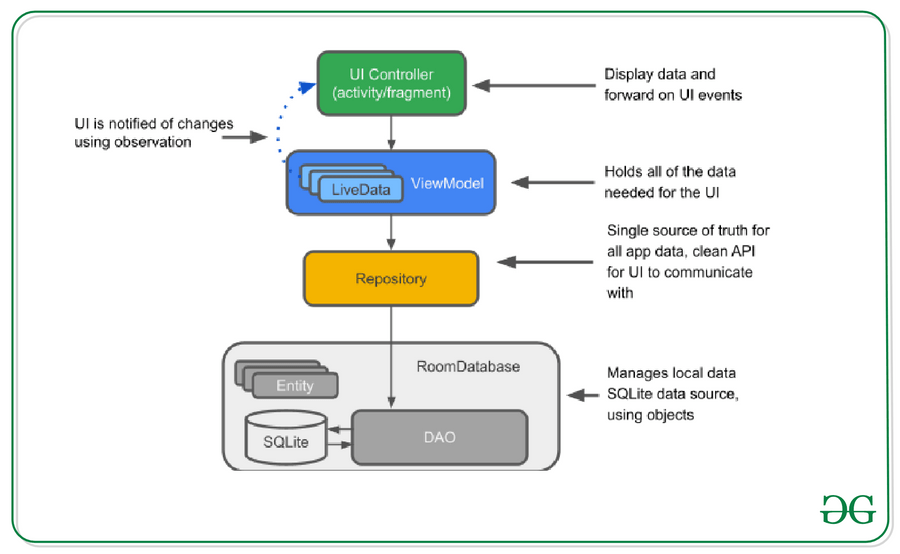
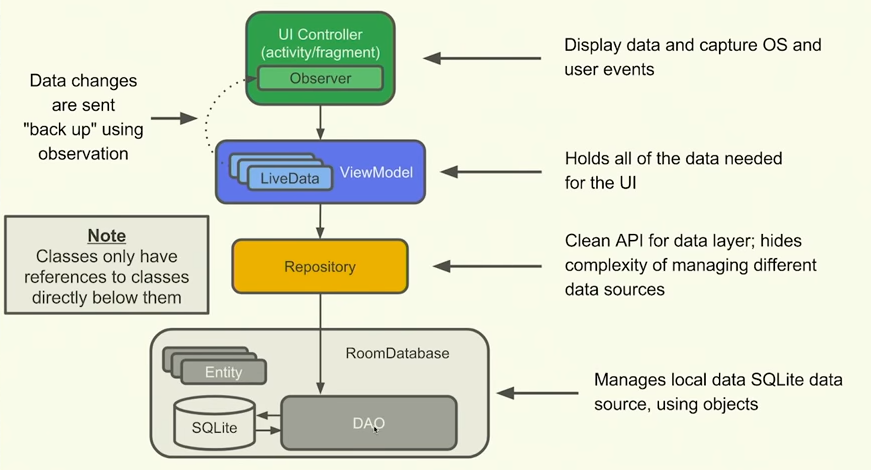
remove validation and update readme file

diff --git a/app/src/main/java/com/example/mirae/Activity/InsertTodoActivity.java b/app/src/main/java/com/example/mirae/Activity/InsertTodoActivity.java
@@ -22,7 +22,7 @@ public class InsertTodoActivity extends AppCompatActivity {
 
     ActivityInsertTodoBinding binding;
     String priority="1";
-    String title, subtitle, todo, todoDate;
+    String title, subtitle, todo;
     TodoViewModel todoViewModel;
 
     @Override
@@ -66,18 +66,7 @@ public class InsertTodoActivity extends AppCompatActivity {
                 subtitle = binding.todoSubtitle.getText().toString();
                 todo = binding.todoData.getText().toString();
 
-                if (title.equals("")) {
-                    binding.todoTitle.requestFocus();
-                    binding.todoTitle.setError("Title is required");
-                }else if (subtitle.equals("")) {
-                    binding.todoSubtitle.requestFocus();
-                    binding.todoSubtitle.setError("Subtitle Required");
-                }else if (todo.equals("")){
-                    binding.todoData.requestFocus();
-                    binding.todoData.setError("Description is required");
-                }else{
-                    createTodo(title, subtitle, todo);
-                }
+                createTodo(title, subtitle, todo);
             }
         });
     }

diff --git a/README.md b/README.md
@@ -1,38 +1,44 @@
 # Mirae 
 
-# Mirae App In Action
+## Mirae App In Action
 Mirae is a simple Todo application that lets users to create, update or delete todo list 
 as well as sort them on the basis of priority. The app also provides a search menu to 
 search for the list based on either the title or subtitle.
 [[keep the live gif file of it working]]
 
-# MVVM Architecture
+## MVVM Architecture
 My Android application adheres to the MVVM architectural pattern, which helps organize the 
 code in a better way. This design separates different parts of the app so that they don't get 
 mixed up and become hard to work with. 
 
 ![git](./img/MVVM.png)
 
-## Folder Structure
-![git](./img/MVVM_architecture_in_Mirae_App.png)
+Folder Structure of Mirae App
+![git](./img/MVVM_architecture_in_Mirae_App.PNG)
 
-# Features of Mirae App
-## Basic Features
+## Features of Mirae App
+### Basic Features
 Splash Screen
+![git](./img/splashscreen.gif)
 
 Add a todo item
+![git](./img/insert_todo.gif)
 
 Update a todo item
+![git](./img/update_todo.gif)
 
 Delete a todo item
+![git](./img/delete_todo.gif)
 
 Persistence
+![git](./img/persistence.gif)
 
 Rotation Fix
+![git](./img/rotation_fix.gif)
 
-## Additional Features
+### Additional Features
 Search on the basis of Title or Subtitle
+![git](./img/search_todo.gif)
 
 Sort on the basis of priority
-
-Validation
+![git](./img/sort_todo.gif)
